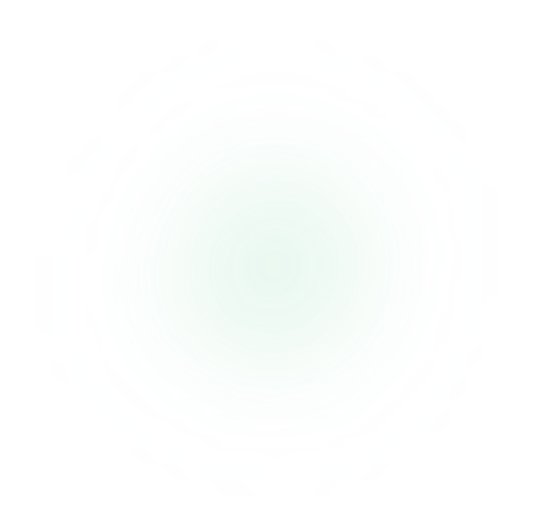
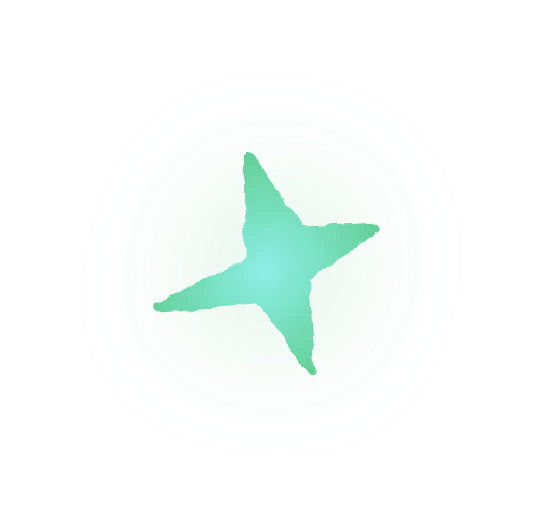
feat(hero): every sky sparkle is its own image

Changed region(s): [[0.2697, 0.2727, 0.7191, 0.7273]]

diff --git a/src/components/hero/hero-stars.tsx b/src/components/hero/hero-stars.tsx
@@ -1,29 +1,41 @@
 /**
- * The eight biggest sparkles of the hero, lifted out of the flattened
- * background so they can drift like the footer's stars. Each one was cut
- * from the 1687x1154 art at the box below (its glow's filter region plus a
- * small margin) and rasterised at that size and at double it, so laying it
- * back at the same box recreates the original picture. Each drifts on its
- * own timing so the sky never moves in lockstep; the drift is wider than the
- * footer stars' float because these sit among sparkles that stay put, and a
- * small move reads as none. They also twinkle, on a beat that never matches
- * their drift, so no two stars repeat the same pairing, and every so often
- * one gives a little wiggle.
+ * Every sparkle of the hero sky as its own image. Each one was cut from the
+ * 1687x1154 art at the box below (its glow's filter region plus a small
+ * margin) at 1x and 2x, so laying them back at their boxes recreates the
+ * picture. There's no background image under them anymore.
+ *
+ * The eight biggest drift, twinkle and now and then wiggle, each on its own
+ * timing so the sky never moves in lockstep. The rest just float.
  */
 import "./hero.css";
 import { SkyTwinkle } from "./sky-twinkle";
 
 const ART = { width: 1687, height: 1154 };
 
+const DRIFTING = 8;
+
 const STARS = [
-  { n: 1, x: 665.38, y: -11, w: 287, h: 262 },
+  { n: 1, x: 666.38, y: -10, w: 285, h: 260 },
   { n: 2, x: 128.82, y: 87.94, w: 267, h: 264 },
   { n: 3, x: 1404.8, y: 315.21, w: 262, h: 237 },
-  { n: 4, x: 1401.41, y: 63.96, w: 234, h: 234 },
-  { n: 5, x: 1055.37, y: 40, w: 207, h: 214 },
-  { n: 6, x: 489.58, y: 31.75, w: 199, h: 210 },
-  { n: 7, x: 841.08, y: 102.63, w: 188, h: 188 },
-  { n: 8, x: 6.66, y: 209.91, w: 182, h: 187 },
+  { n: 4, x: 1400.41, y: 62.96, w: 236, h: 236 },
+  { n: 5, x: 1053.37, y: 38, w: 211, h: 218 },
+  { n: 6, x: 487.58, y: 29.75, w: 203, h: 214 },
+  { n: 7, x: 838.08, y: 99.63, w: 194, h: 194 },
+  { n: 8, x: 3.66, y: 206.91, w: 188, h: 193 },
+  { n: 9, x: 1312.79, y: 559.86, w: 194, h: 176 },
+  { n: 10, x: 657.44, y: 1059.2, w: 107, h: 105 },
+  { n: 11, x: 1259.92, y: 41.02, w: 145, h: 149 },
+  { n: 12, x: 755.16, y: 853.86, w: 148, h: 151 },
+  { n: 13, x: 960.26, y: 742.82, w: 176, h: 176 },
+  { n: 14, x: 12.62, y: 94.76, w: 157, h: 135 },
+  { n: 15, x: 213.33, y: 318.02, w: 140, h: 154 },
+  { n: 16, x: 1256.85, y: 909.56, w: 120, h: 113 },
+  { n: 17, x: 1201.16, y: 382.44, w: 112, h: 111 },
+  { n: 18, x: 1458.86, y: 801.05, w: 118, h: 106 },
+  { n: 19, x: 965.14, y: 975.61, w: 107, h: 106 },
+  { n: 20, x: -10, y: 493.55, w: 103, h: 103 },
+  { n: 21, x: 337.2, y: 76.75, w: 107, h: 107 },
 ] as const;
 
 type HeroStarsProps = {
@@ -34,16 +46,14 @@ type HeroStarsProps = {
   scale?: number;
 };
 
-/**
- * Drifting stars, placed over the sparkles art they were taken from, with
- * the rest of the sky's twinkle underneath them.
- */
+// parent sets the aspect. not lazy bc it's the whole sky, above the fold
 export const HeroStars = ({ scale = 1 }: HeroStarsProps) => (
   <>
     <SkyTwinkle />
     {STARS.map(({ n, x, y, w, h }, i) => {
       const width = (w / ART.width) * 100;
       const base = `/assets/hero/star-${n}`;
+      const drifting = i < DRIFTING;
       return (
         // eslint-disable-next-line @next/next/no-img-element -- static export, needs a srcset
         <img
@@ -54,15 +64,21 @@ export const HeroStars = ({ scale = 1 }: HeroStarsProps) => (
           width={w}
           height={h}
           alt=""
-          loading="lazy"
           decoding="async"
-          className="hero-star pointer-events-none absolute h-auto max-w-none"
+          className={`${drifting ? "hero-star" : "motion-safe:animate-float"} pointer-events-none absolute h-auto max-w-none`}
           style={{
             left: `${((x / ART.width) * 100).toFixed(2)}%`,
             top: `${((y / ART.height) * 100).toFixed(2)}%`,
             width: `${width.toFixed(2)}%`,
-            animationDuration: `${5 + (i % 4)}s, ${2.6 + ((i * 1.3) % 2.4)}s, ${7 + ((i * 2.3) % 5)}s`,
-            animationDelay: `-${(i * 1.7) % 8}s, -${(i * 0.9) % 3}s, -${(i * 3.1) % 9}s`,
+            ...(drifting
+              ? {
+                  animationDuration: `${5 + (i % 4)}s, ${2.6 + ((i * 1.3) % 2.4)}s, ${7 + ((i * 2.3) % 5)}s`,
+                  animationDelay: `-${(i * 1.7) % 8}s, -${(i * 0.9) % 3}s, -${(i * 3.1) % 9}s`,
+                }
+              : {
+                  animationDuration: `${6 + (i % 4)}s`,
+                  animationDelay: `-${((i * 1.3) % 7).toFixed(1)}s`,
+                }),
           }}
         />
       );
